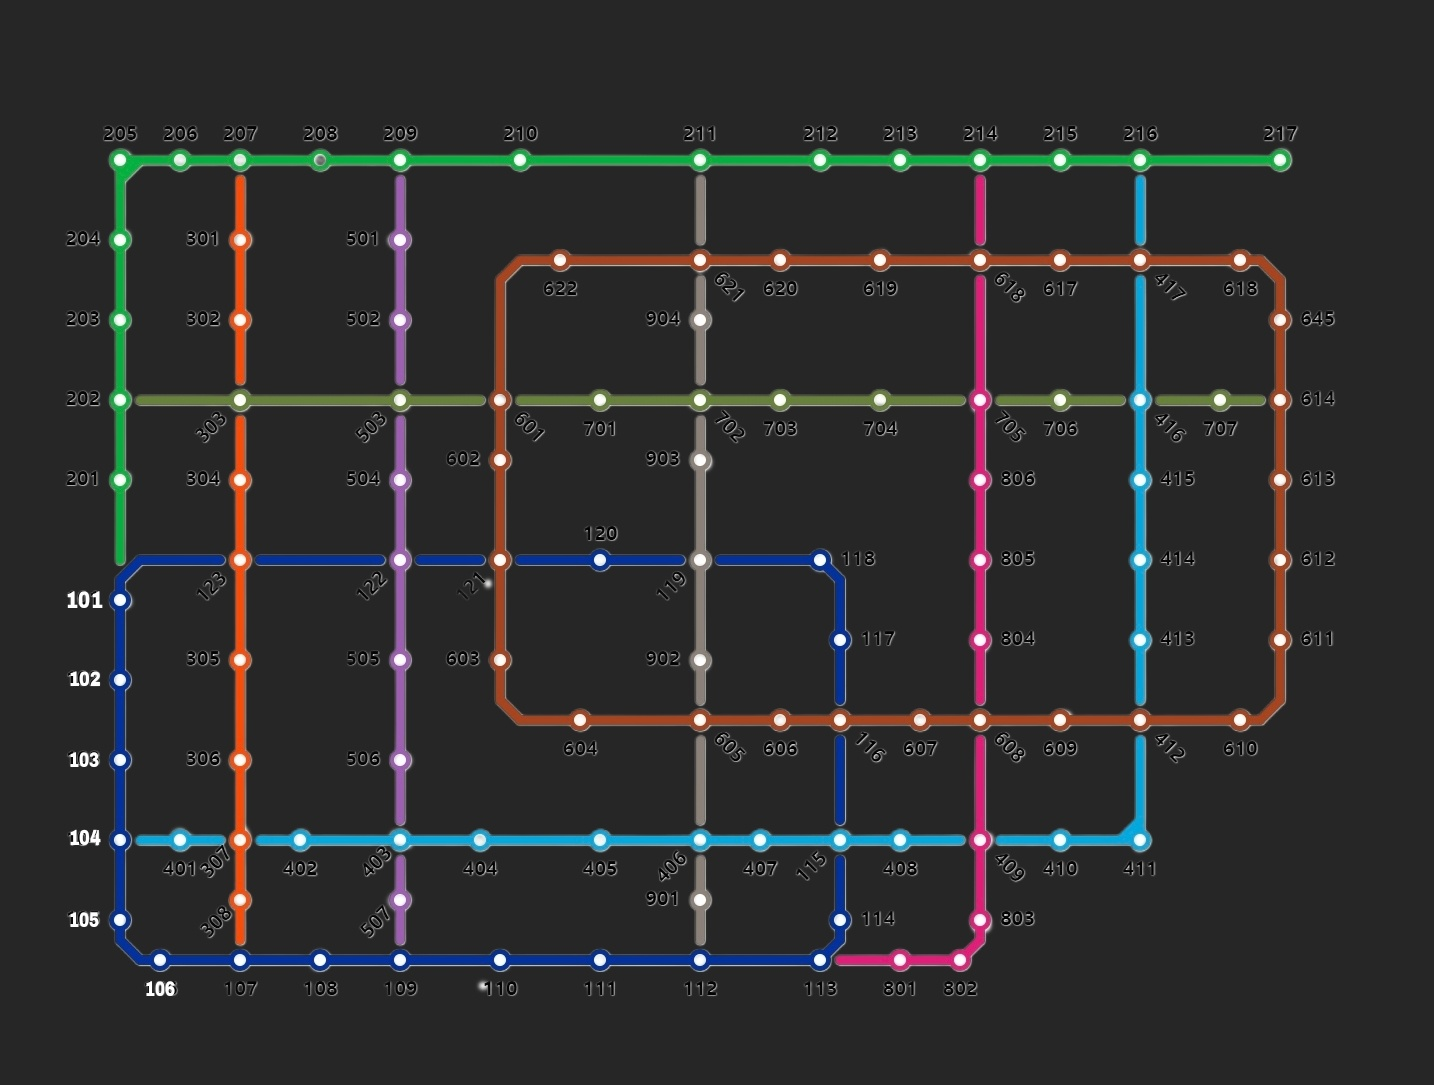
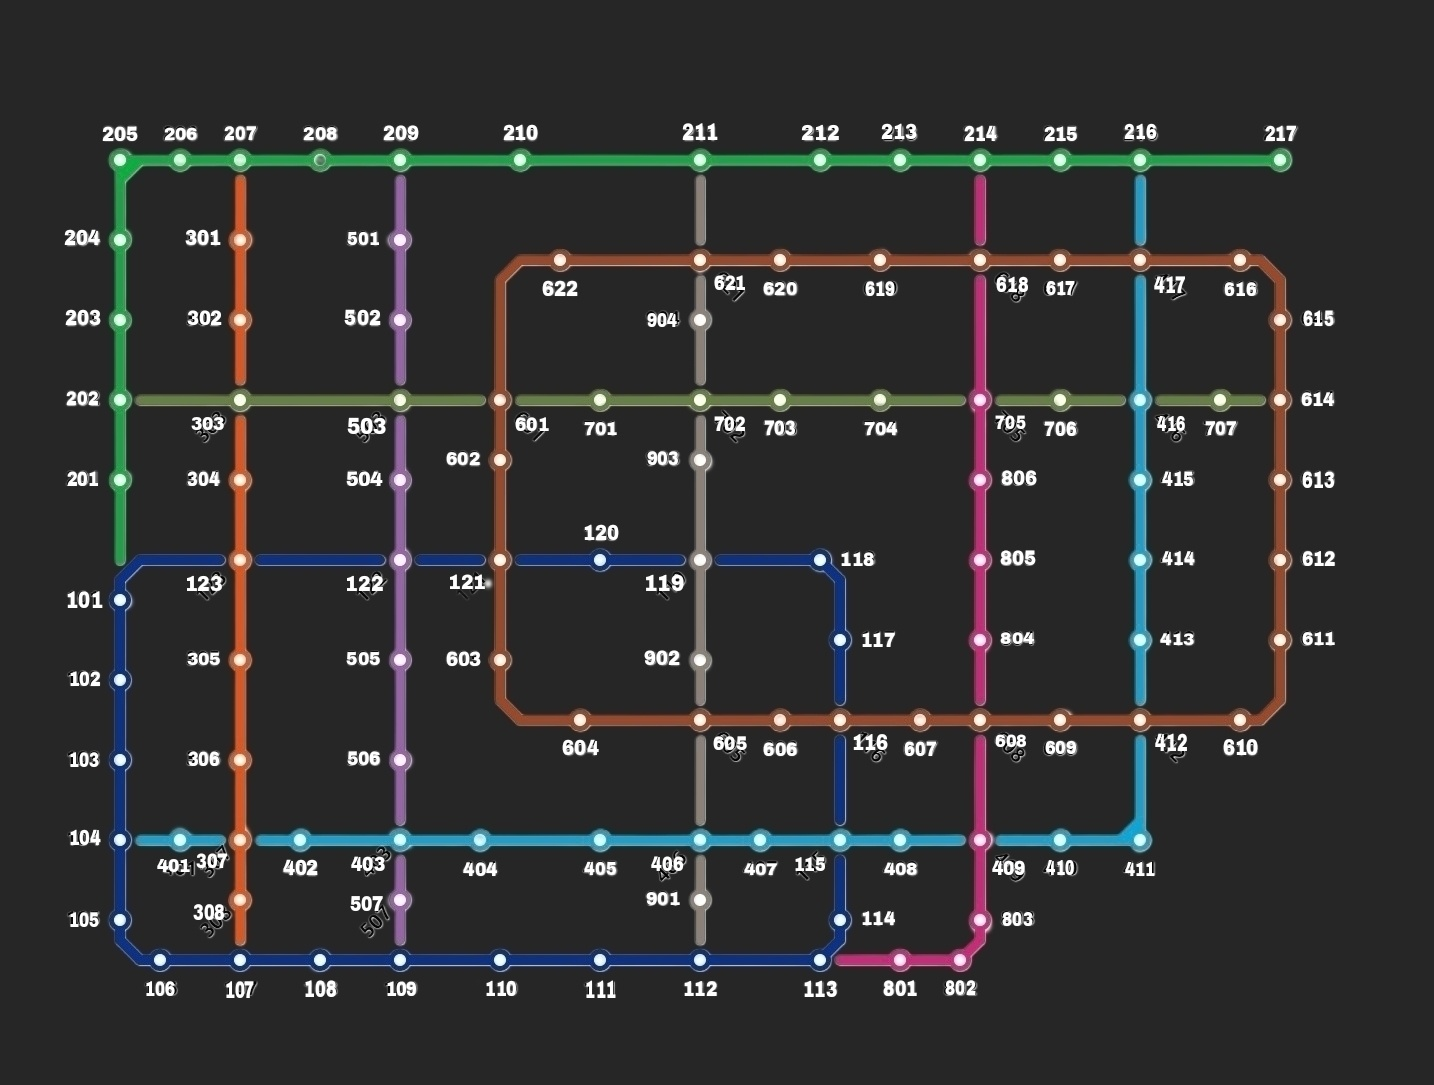
다크모드니가뭔데안되고지랄인데진짜빡치게하지말라고나무서운사람이야

diff --git a/lib/FIndWay/StationMap.dart b/lib/FIndWay/StationMap.dart
@@ -30,6 +30,7 @@ class _StationMapState extends State<StationMap> {
   List<Map<String, dynamic>> _searchHistory = []; // 검색 기록 리스트
   String? _selectedLine = '전체'; // 드롭다운의 초기 선택값 설정
   String _currentMapPath = 'assets/images/station/StationMap.jpg'; // 초기 노선도 경로
+  String _currentMapPathTodark = 'assets/images/station/StationMap_dark_.jpg';
 
   // 출발역과 도착역을 교환하는 메서드
   void _swapStations() {
@@ -78,7 +79,10 @@ class _StationMapState extends State<StationMap> {
 
   // 드롭박스 값 변경 시 노선도 업데이트
   void _updateMap(String line) {
-    final stationMap = getStationMap();
+    final themeNotifier = Provider.of<ThemeNotifier>(context, listen: false);
+    final stationMap =
+        themeNotifier.isDarkMode ? getStationMapDark() : getStationMapLight();
+
     setState(() {
       _currentMapPath =
           stationMap[line] ?? 'assets/images/station/StationMap.jpg';
@@ -90,7 +94,7 @@ class _StationMapState extends State<StationMap> {
   Widget build(BuildContext context) {
     final themeNotifier = Provider.of<ThemeNotifier>(context);
     return Scaffold(
-            backgroundColor: themeNotifier.isDarkMode
+      backgroundColor: themeNotifier.isDarkMode
           ? const Color.fromARGB(255, 38, 38, 38) // 다크 모드 배경
           : Colors.white,
       appBar: AppBar(
@@ -140,8 +144,8 @@ class _StationMapState extends State<StationMap> {
                             prefixIcon: Icon(Icons.search),
                             prefixIconColor: Color(0xff386B88),
                             fillColor: themeNotifier.isDarkMode
-                                        ? const Color.fromARGB(179, 211, 211, 211)
-                                        :Colors.white, // 배경색 설정
+                                ? const Color.fromARGB(179, 211, 211, 211)
+                                : Colors.white, // 배경색 설정
                             filled: true, // 배경색 활성화
                             border: OutlineInputBorder(
                               borderRadius: BorderRadius.circular(30),
@@ -149,8 +153,8 @@ class _StationMapState extends State<StationMap> {
                             ),
                             hintStyle: TextStyle(
                               color: themeNotifier.isDarkMode
-                                    ?const Color.fromARGB(255, 27, 27, 27)
-                                    : Color(0xFFABABAB),
+                                  ? const Color.fromARGB(255, 27, 27, 27)
+                                  : Color(0xFFABABAB),
                             )),
                         onTap: () => _navigateToSearch(context),
                         readOnly: true, // 클릭 시에만 검색 페이지로 이동
@@ -163,16 +167,16 @@ class _StationMapState extends State<StationMap> {
                             prefixIcon: Icon(Icons.search),
                             prefixIconColor: Color(0xff386B88),
                             fillColor: themeNotifier.isDarkMode
-                                        ? const Color.fromARGB(179, 211, 211, 211)
-                                        :Colors.white, // 배경색 설정
-                            filled: true, // 배경색 활성화                            
+                                ? const Color.fromARGB(179, 211, 211, 211)
+                                : Colors.white, // 배경색 설정
+                            filled: true, // 배경색 활성화
                             border: OutlineInputBorder(
                               borderRadius: BorderRadius.circular(30),
                             ),
                             hintStyle: TextStyle(
                               color: themeNotifier.isDarkMode
-                                    ?const Color.fromARGB(255, 27, 27, 27)
-                                    : Color(0xFFABABAB),     
+                                  ? const Color.fromARGB(255, 27, 27, 27)
+                                  : Color(0xFFABABAB),
                             )),
                         onTap: () => _navigateToSearch(context),
                         readOnly: true, // 클릭 시에만 검색 페이지로 이동
@@ -193,7 +197,9 @@ class _StationMapState extends State<StationMap> {
                     maxScale: 4.0,
                     child: Container(
                       child: Center(
-                        child: Image.asset(_currentMapPath),
+                        child: Image.asset(themeNotifier.isDarkMode
+                            ? _currentMapPathTodark
+                            : _currentMapPath),
                       ),
                     ),
                   ),
@@ -212,9 +218,9 @@ class _StationMapState extends State<StationMap> {
                         value: _selectedLine,
                         icon: Icon(Icons.arrow_drop_down,
                             color: Colors.white, size: 18),
-                            dropdownColor: themeNotifier.isDarkMode
-                                ? Color.fromARGB(255, 68, 97, 113)
-                                : Color.fromARGB(255, 128, 180, 210),
+                        dropdownColor: themeNotifier.isDarkMode
+                            ? Color.fromARGB(255, 68, 97, 113)
+                            : Color.fromARGB(255, 128, 180, 210),
                         style: TextStyle(color: Colors.white),
                         underline: SizedBox(),
                         onChanged: (String? newValue) {

diff --git a/lib/util/util.dart b/lib/util/util.dart
@@ -24,7 +24,6 @@ class SharedStationData {
     searchHistory.insert(0, station);
   }
 
-
   // 즐겨찾기 상태
   static void toggleFavoriteStatus(String stationName) {
     for (var station in searchHistory) {
@@ -61,7 +60,7 @@ void toggleFavorite(List<Map<String, dynamic>> history, int index) {
   }
 }
 
-Map<String, String> getStationMap() {
+Map<String, String> getStationMapLight() {
   return {
     '전체': 'assets/images/station/StationMap.jpg',
     '1호선': 'assets/images/station/Line1.jpg',
@@ -75,3 +74,62 @@ Map<String, String> getStationMap() {
     '9호선': 'assets/images/station/Line9.jpg',
   };
 }
+
+Map<String, String> getStationMapDark() {
+  return {
+    '전체': 'assets/images/station/stationMap_dark_.jpg',
+    '1호선': 'assets/images/station/Line1_dark_.jpg',
+    '2호선': 'assets/images/station/Line2_dark_.jpg',
+    '3호선': 'assets/images/station/Line3_dark_.jpg',
+    '4호선': 'assets/images/station/Line4_dark_.jpg',
+    '5호선': 'assets/images/station/Line5_dark_.jpg',
+    '6호선': 'assets/images/station/Line6_dark_.jpg',
+    '7호선': 'assets/images/station/Line7_dark_.jpg',
+    '8호선': 'assets/images/station/Line8_dark_.jpg',
+    '9호선': 'assets/images/station/Line9_dark_.jpg',
+  };
+}
+/* Map<String, Map<String, String>> getStationMap() {
+  return {
+    '전체': {
+      'light': 'assets/images/station/StationMap.jpg',
+      'dark': 'assets/images/station/stationMap_dark_.jpg',
+    },
+    '1호선': {
+      'light': 'assets/images/station/Line1.jpg',
+      'dark': 'assets/images/station/Line1_dark_.jpg',
+    },
+    '2호선': {
+      'light': 'assets/images/station/Line2.jpg',
+      'dark': 'assets/images/station/Line2_dark+.jpg',
+    },
+    '3호선': {
+      'light': 'assets/images/station/Line3.jpg',
+      'dark': 'assets/images/station/Line3_dark_.jpg',
+    },
+    '4호선': {
+      'light': 'assets/images/station/Line4.jpg',
+      'dark': 'assets/images/station/Line4_dark_.jpg',
+    },
+    '5호선': {
+      'light': 'assets/images/station/Line5.jpg',
+      'dark': 'assets/images/station/Line5_dark_.jpg',
+    },
+    '6호선': {
+      'light': 'assets/images/station/Line6.jpg',
+      'dark': 'assets/images/station/Line6_dark_.jpg',
+    },
+    '7호선': {
+      'light': 'assets/images/station/Line7.jpg',
+      'dark': 'assets/images/station/Line7_dark_.jpg',
+    },
+    '8호선': {
+      'light': 'assets/images/station/Line8.jpg',
+      'dark': 'assets/images/station/Line8_dark_.jpg',
+    },
+    '9호선': {
+      'light': 'assets/images/station/Line9.jpg',
+      'dark': 'assets/images/station/Line9_dark_.jpg',
+    },
+  };
+} */

diff --git a/lib/main.dart b/lib/main.dart
@@ -108,7 +108,7 @@ class _Home extends State<Home> {
   String? _selectedLine = '전체';
   String _currentMapPath = 'assets/images/station/StationMap.jpg'; // 초기 노선도 경로
   String _currentMapPathTodark =
-      'assets/images/station/StationMap_dark_.jpg'; // 다크모드 노선도
+      'assets/images/station/stationMap_dark_.jpg'; // 다크모드 노선도
 
   void _toggleMenuVisibility() {
     setState(() {
@@ -118,10 +118,17 @@ class _Home extends State<Home> {
 
   // 드롭박스 값 변경 시 노선도 업데이트
   void _updateMap(String line) {
-    final stationMap = getStationMap();
+    final themeNotifier = Provider.of<ThemeNotifier>(context, listen: false);
+    final stationMap =
+        themeNotifier.isDarkMode ? getStationMapDark() : getStationMapLight();
+
     setState(() {
-      _currentMapPath =
-          stationMap[line] ?? 'assets/images/station/StationMap.jpg';
+      themeNotifier.isDarkMode
+          ? _currentMapPath =
+              stationMap[line] ?? 'assets/images/station/StationMap_dark_.jpg'
+          : _currentMapPath =
+              stationMap[line] ?? 'assets/images/station/StationMap.jpg';
+
       _selectedLine = line;
     });
   }
@@ -226,10 +233,9 @@ class _Home extends State<Home> {
                         maxScale: 4.0,
                         child: Container(
                           child: Center(
-                            child: Image.asset(
-                              themeNotifier.isDarkMode
-                              ?_currentMapPathTodark
-                              :_currentMapPath),
+                            child: Image.asset(themeNotifier.isDarkMode
+                                ? _currentMapPathTodark
+                                : _currentMapPath),
                           ),
                         ),
                       ),
